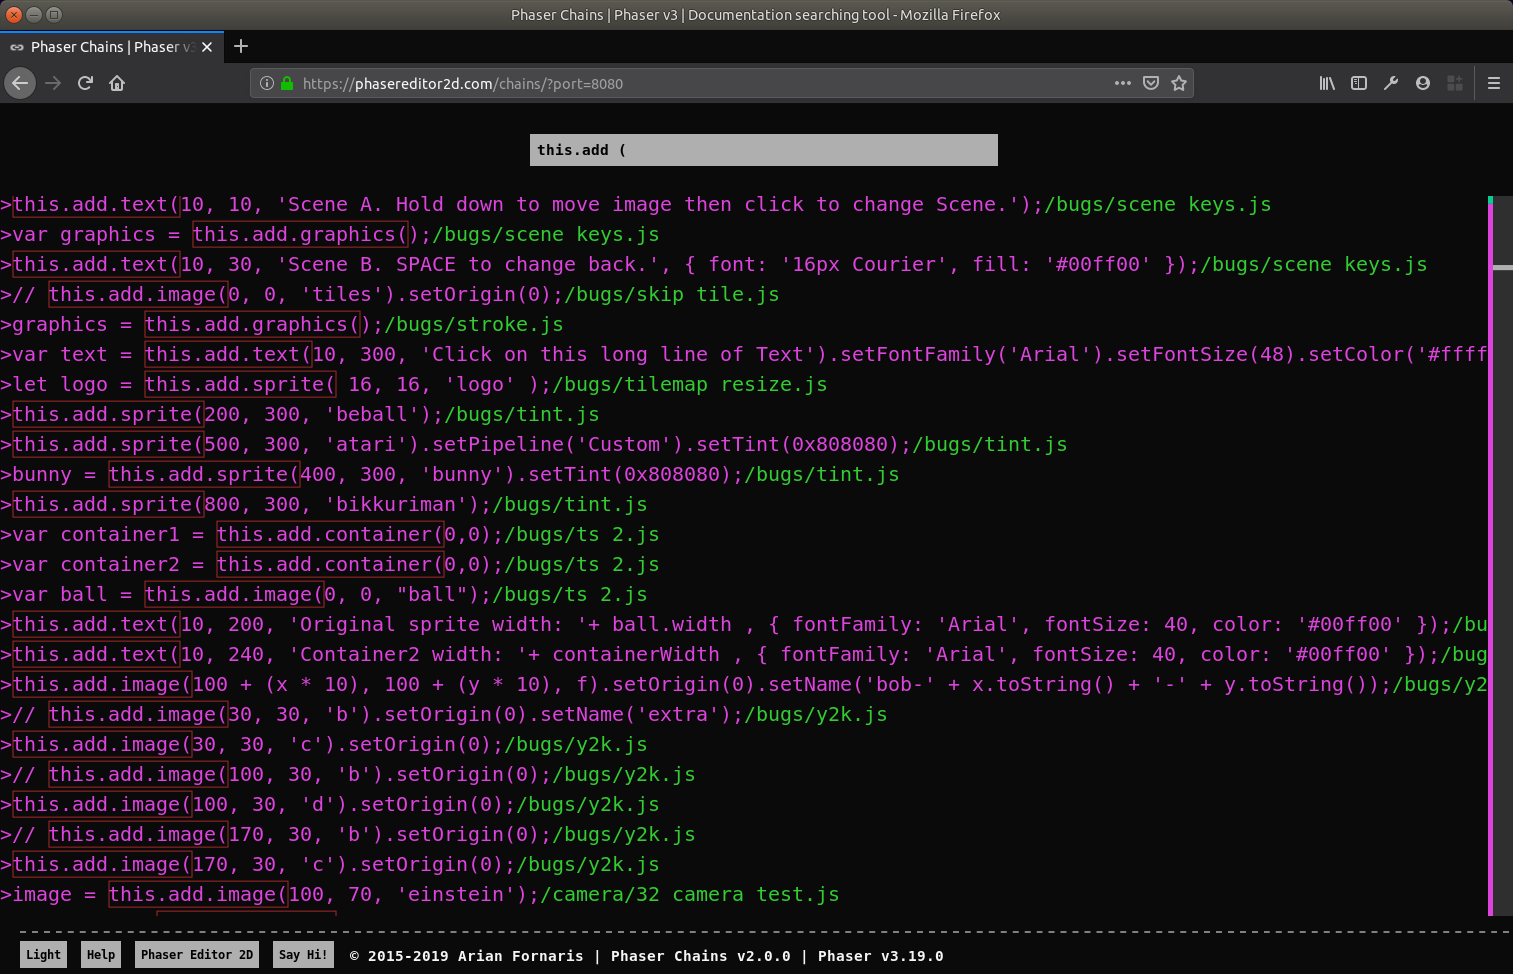
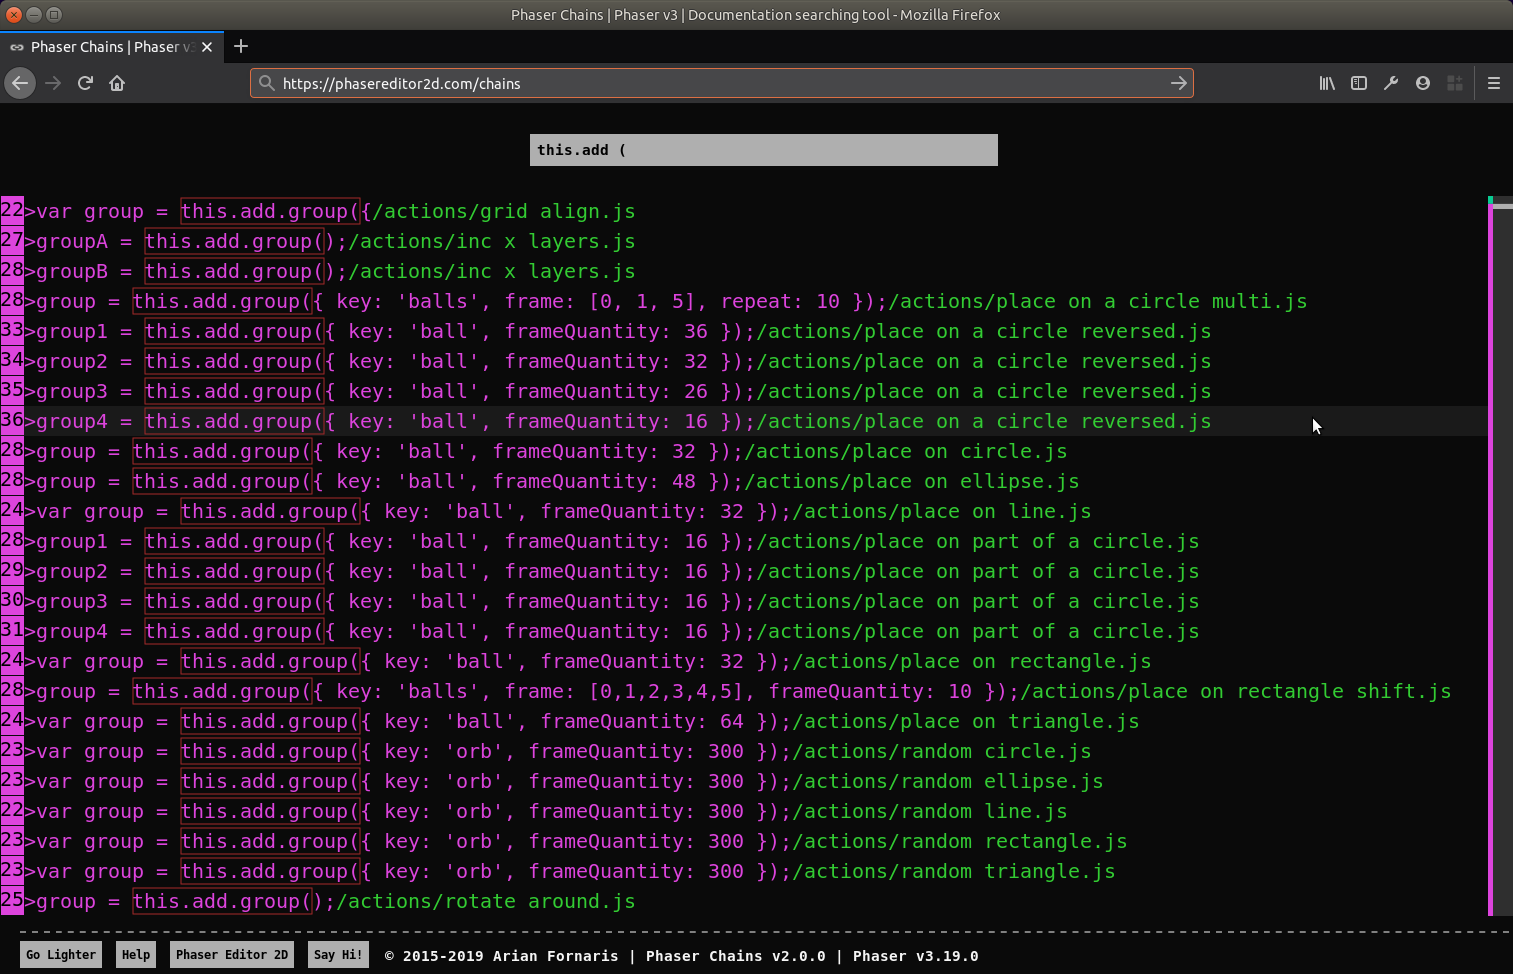
Lowercase the examples lines.

diff --git a/WebContent/js/store.js b/WebContent/js/store.js
@@ -82,7 +82,7 @@ var Chains;
         }
         Store.prototype.init = function () {
             return __awaiter(this, void 0, void 0, function () {
-                var preloadElement, msg, resp, apiData, msg, chainsData, msg, examplesData;
+                var preloadElement, msg, msg, resp, apiData, msg, chainsData, msg, examplesData;
                 return __generator(this, function (_a) {
                     switch (_a.label) {
                         case 0:
@@ -90,7 +90,18 @@ var Chains;
                             preloadElement.style.display = "inherit";
                             {
                                 msg = document.createElement("p");
-                                msg.innerHTML = "Fetching chains [1/3]...";
+                                msg.innerHTML = "I support Phaser v" + Chains.PHASER_VERSION + ".";
+                                preloadElement.appendChild(msg);
+                                msg = document.createElement("p");
+                                msg.innerHTML = "Now I will fetch some resources but it takes a while...";
+                                preloadElement.appendChild(msg);
+                                msg = document.createElement("p");
+                                msg.innerHTML = "(I invite you to read my <a href=\"https://github.com/PhaserEditor2D/phaser30chains\">documentation</a>, it is short)";
+                                preloadElement.appendChild(msg);
+                            }
+                            {
+                                msg = document.createElement("p");
+                                msg.innerHTML = "I am fetching the chains ~10MB [1/3]...";
                                 preloadElement.appendChild(msg);
                             }
                             return [4, fetch("data/api-" + Chains.VERSION + ".json")];
@@ -102,7 +113,7 @@ var Chains;
                             this.createApiMembers(apiData);
                             {
                                 msg = document.createElement("p");
-                                msg.innerHTML = "Fetching API [2/3]...";
+                                msg.innerHTML = "I am fetching the docs ~8MB [2/3]...";
                                 preloadElement.appendChild(msg);
                             }
                             return [4, fetch("data/chains-" + Chains.VERSION + ".json")];
@@ -114,7 +125,7 @@ var Chains;
                             this.createChainsData(chainsData);
                             {
                                 msg = document.createElement("p");
-                                msg.innerHTML = "Fetching examples [3/3]...";
+                                msg.innerHTML = "I am fetching the examples ~7MB [3/3]...";
                                 preloadElement.appendChild(msg);
                             }
                             return [4, fetch("data/examples-" + Chains.VERSION + ".json")];
@@ -124,9 +135,7 @@ var Chains;
                         case 6:
                             examplesData = _a.sent();
                             this.createExamplesData(examplesData);
-                            {
-                                preloadElement.remove();
-                            }
+                            preloadElement.remove();
                             return [2];
                     }
                 });

diff --git a/WebContent/js/chains-page.js b/WebContent/js/chains-page.js
@@ -228,14 +228,14 @@ var Chains;
                     var queryParts = query.split(" ").map(function (q) { return q.trim(); }).filter(function (q) { return q.length > 0; });
                     for (var _b = 0, _c = Chains.store.getExampleFilesData(); _b < _c.length; _b++) {
                         var file = _c[_b];
-                        var result = this.matches(queryParts, "/" + file.filename);
+                        var result = this.matches(queryParts, "/" + file.filename.toLowerCase());
                         if (result.ok) {
                             examplesFilesMatches.push(new ChainMatchInfo(null, file, null, result.start, result.end));
                         }
                     }
                     for (var _d = 0, _e = Chains.store.getExampleLinesData(); _d < _e.length; _d++) {
                         var line = _e[_d];
-                        var result = this.matches(queryParts, ">" + line.line);
+                        var result = this.matches(queryParts, ">" + line.line.toLowerCase());
                         if (result.ok) {
                             examplesLinesMatches.push(new ChainMatchInfo(null, null, line, result.start, result.end));
                         }
@@ -273,14 +273,15 @@ var Chains;
         };
         ChainsPage.prototype.matches = function (queryParts, input) {
             var all = true;
-            var index = 0;
-            var start = Number.MAX_VALUE;
+            var start = -1;
             var end = 0;
             for (var _i = 0, queryParts_1 = queryParts; _i < queryParts_1.length; _i++) {
                 var queryPart = queryParts_1[_i];
-                index = input.indexOf(queryPart, index);
-                if (index >= 0) {
-                    start = Math.min(index, start);
+                var index = input.indexOf(queryPart, end);
+                if (index >= end) {
+                    if (start === -1) {
+                        start = index;
+                    }
                     end = index + queryPart.length;
                 }
                 else {

diff --git a/WebContent/ts/store.ts b/WebContent/ts/store.ts
@@ -61,7 +61,20 @@ namespace Chains {
 
             {
                 let msg = document.createElement("p");
-                msg.innerHTML = "Fetching chains [1/3]...";
+                msg.innerHTML = `I support Phaser v${PHASER_VERSION}.`;
+                preloadElement.appendChild(msg);
+
+                msg = document.createElement("p");
+                msg.innerHTML = `Now I will fetch some resources but it takes a while...`;
+                preloadElement.appendChild(msg);
+
+                msg = document.createElement("p");
+                msg.innerHTML = `(I invite you to read my <a href="https://github.com/PhaserEditor2D/phaser30chains">documentation</a>, it is short)`;
+                preloadElement.appendChild(msg);
+            }
+            {
+                let msg = document.createElement("p");
+                msg.innerHTML = "I am fetching the chains ~10MB [1/3]...";
                 preloadElement.appendChild(msg);
             }
 
@@ -71,7 +84,7 @@ namespace Chains {
 
             {
                 let msg = document.createElement("p");
-                msg.innerHTML = "Fetching API [2/3]...";
+                msg.innerHTML = "I am fetching the docs ~8MB [2/3]...";
                 preloadElement.appendChild(msg);
             }
 
@@ -81,7 +94,7 @@ namespace Chains {
 
             {
                 let msg = document.createElement("p");
-                msg.innerHTML = "Fetching examples [3/3]...";
+                msg.innerHTML = "I am fetching the examples ~7MB [3/3]...";
                 preloadElement.appendChild(msg);
             }
 
@@ -89,10 +102,7 @@ namespace Chains {
             let examplesData = await resp.json();
             this.createExamplesData(examplesData);
 
-
-            {
-                preloadElement.remove();
-            }
+            preloadElement.remove();
         }
 
         createExamplesData(examplesData: any[]) {

diff --git a/WebContent/ts/chains-page.ts b/WebContent/ts/chains-page.ts
@@ -264,14 +264,14 @@ namespace Chains {
                     let queryParts = query.split(" ").map(q => q.trim()).filter(q => q.length > 0);
 
                     for (let file of Chains.store.getExampleFilesData()) {
-                        let result = this.matches(queryParts, "/" + file.filename);
+                        let result = this.matches(queryParts, "/" + file.filename.toLowerCase());
                         if (result.ok) {
                             examplesFilesMatches.push(new ChainMatchInfo(null, file, null, result.start, result.end));
                         }
                     }
 
                     for (let line of Chains.store.getExampleLinesData()) {
-                        let result = this.matches(queryParts, ">" + line.line);
+                        let result = this.matches(queryParts, ">" + line.line.toLowerCase());
                         if (result.ok) {
                             examplesLinesMatches.push(new ChainMatchInfo(null, null, line, result.start, result.end));
                         }
@@ -312,13 +312,14 @@ namespace Chains {
 
         matches(queryParts: string[], input: string) {
             let all = true;
-            let index = 0;
-            let start = Number.MAX_VALUE;
+            let start = -1;
             let end = 0;
             for (let queryPart of queryParts) {
-                index = input.indexOf(queryPart, index);
-                if (index >= 0) {
-                    start = Math.min(index, start);
+                let index = input.indexOf(queryPart, end);
+                if (index >= end) {
+                    if (start === -1) {
+                        start = index;
+                    }
                     end = index + queryPart.length;
                 } else {
                     all = false;

diff --git a/WebContent/js/ui.js b/WebContent/js/ui.js
@@ -41,7 +41,7 @@ var Chains;
             return this._theme;
         };
         UI.prototype.updateThemeButton = function () {
-            this._themeBtn.innerHTML = this.isDarkTheme() ? "Light" : "Dark";
+            this._themeBtn.innerHTML = this.isDarkTheme() ? "Go Lighter" : "Go Darker";
         };
         UI.prototype.swapTheme = function () {
             var html = document.getElementsByTagName("html")[0];

diff --git a/WebContent/ts/ui.ts b/WebContent/ts/ui.ts
@@ -66,7 +66,7 @@ namespace Chains {
         }
 
         private updateThemeButton() {
-            this._themeBtn.innerHTML = this.isDarkTheme() ? "Light" : "Dark";
+            this._themeBtn.innerHTML = this.isDarkTheme() ? "Go Lighter" : "Go Darker";
         }
 
         swapTheme() {

diff --git a/WebContent/index.html b/WebContent/index.html
@@ -102,7 +102,7 @@
     <!-- preload { -->
 
     <div id="preload" style="display: none">
-        <p>[Booting Phaser Chains -- Phaser v3]</p>
+        <p>Welcome, game developer! I am Phaser Chains!</p>
     </div>
 
     <!-- } preload-->

diff --git a/WebContent/css/ui.css b/WebContent/css/ui.css
@@ -15,7 +15,7 @@ html {
     background: rgb(10, 10, 10);
     color: #afafaf;
     font-family: monospace;
-    font-size: 2em;
+    font-size: 1.5em;
 }
 
 #preload p {

diff --git a/README.md b/README.md
@@ -18,6 +18,8 @@ And the result is:
 ![Search chains to add objects](guide-images/search-1.png)
 
 
-If you scroll down you will see a lot of lines extracted from the official Phaser examples:
+If you scroll down a bit, you will see a lot of lines extracted from the official Phaser examples:
 
 ![Search chains to add objects in examples](guide-images/search-2.png).
+
+This means, your query is used to search on the Phaser API and the Phaser examples at the same time. Phaser provides a lot of examples and every major feature is showcase in one or more of them. 
